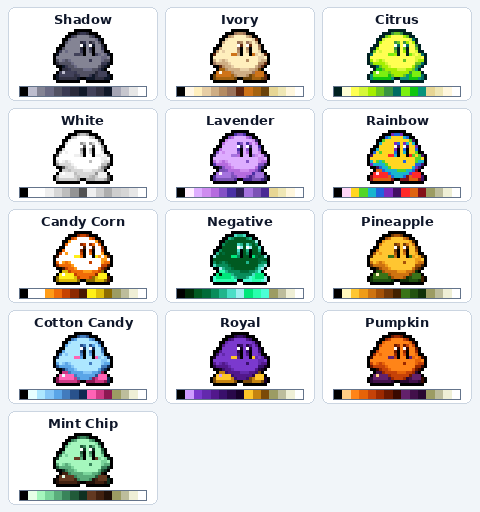
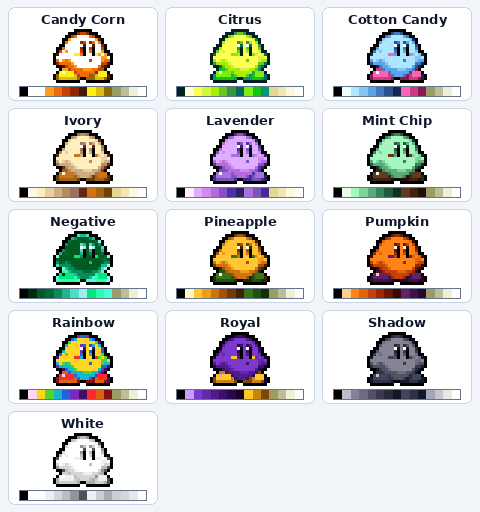
Alphabetize the three Kirby color palette galleries

diff --git a/worlds/kirbyam/docs/color-palettes.md b/worlds/kirbyam/docs/color-palettes.md
@@ -15,44 +15,51 @@ Kirby & The Amazing Mirror:
 
 ### Original colors
 
-![Kirby sprites and swatches for the 14 original palettes, from Pink to Chalk. The YAML keys are listed below.](color-palettes-native.png)
+![Kirby sprites and swatches for the 14 original palettes, from Carbon to Yellow. The YAML keys are listed below.](color-palettes-native.png)
 
 ### Additional starting colors
 
-![Kirby sprites and swatches for the 13 additional selectable palettes, from Shadow to Mint Chip. The YAML keys are listed below.](color-palettes-curated.png)
+![Kirby sprites and swatches for the 13 additional selectable palettes, from Candy Corn to White. The YAML keys are listed below.](color-palettes-curated.png)
 
 <details>
 <summary>All 27 color names and YAML values</summary>
 
+**Original colors**
+
 | Color | YAML value |
 | --- | --- |
-| Pink | `pink` |
-| Yellow | `yellow` |
-| Red | `red` |
-| Green | `green` |
-| Snow | `snow` |
 | Carbon | `carbon` |
-| Ocean | `ocean` |
-| Sapphire | `sapphire` |
-| Grape | `grape` |
-| Emerald | `emerald` |
-| Orange | `orange` |
-| Chocolate | `chocolate` |
-| Cherry | `cherry` |
 | Chalk | `chalk` |
-| Shadow | `shadow` |
-| Ivory | `ivory` |
-| Citrus | `citrus` |
-| White | `white` |
-| Lavender | `lavender` |
-| Rainbow | `rainbow` |
+| Cherry | `cherry` |
+| Chocolate | `chocolate` |
+| Emerald | `emerald` |
+| Grape | `grape` |
+| Green | `green` |
+| Ocean | `ocean` |
+| Orange | `orange` |
+| Pink | `pink` |
+| Red | `red` |
+| Sapphire | `sapphire` |
+| Snow | `snow` |
+| Yellow | `yellow` |
+
+**Additional starting colors**
+
+| Color | YAML value |
+| --- | --- |
 | Candy Corn | `candy_corn` |
+| Citrus | `citrus` |
+| Cotton Candy | `cotton_candy` |
+| Ivory | `ivory` |
+| Lavender | `lavender` |
+| Mint Chip | `mint_chip` |
 | Negative | `negative` |
 | Pineapple | `pineapple` |
-| Cotton Candy | `cotton_candy` |
-| Royal | `royal` |
 | Pumpkin | `pumpkin` |
-| Mint Chip | `mint_chip` |
+| Rainbow | `rainbow` |
+| Royal | `royal` |
+| Shadow | `shadow` |
+| White | `white` |
 
 </details>
 
@@ -60,54 +67,54 @@ Kirby & The Amazing Mirror:
 
 These **41 reference palettes** are not in the game and cannot be selected in YAML. The sprite mockups show how the reference swatches look on normal Kirby; they have not been implemented or checked in gameplay. Names and colors may change.
 
-![Kirby mockups and swatches for the first 21 proposals, Rose through Samus. The names are listed below.](color-palettes-proposals-1.png)
+![Kirby mockups and swatches for the first 21 proposals, Advance Ice through Meconopsis / Blue Poppy. The names are listed below.](color-palettes-proposals-1.png)
 
-![Kirby mockups and swatches for the remaining 20 proposals, Marx through Ultra Stone. The names are listed below.](color-palettes-proposals-2.png)
+![Kirby mockups and swatches for the remaining 20 proposals, Mogeko through Waddle Dee. The names are listed below.](color-palettes-proposals-2.png)
 
 <details>
 <summary>All 41 proposed color names</summary>
 
-- Rose
-- Daisy
-- Lemon
-- Beautiful Sunset
-- Carrot Cake
-- Snow Cone
-- Strawberry Peach
-- Halloween
-- Ramia’s Scale & Star Stone
-- Meconopsis / Blue Poppy
-- Superstar Ice
-- KDL3 Pink
 - Advance Ice
-- Advance Stone
-- Superstar Meta Knight
 - Advance Meta Knight
-- Galacta Knight
-- Morpho Knight
-- Dedede
-- Link
-- Samus
-- Marx
-- Purple
+- Advance Stone
+- Beautiful Sunset
 - Bright
-- Spicy
-- Toad
-- Edgey
-- Mogeko
-- Waddle Dee
-- Lololo
-- Lalala
 - Calie
+- Carrot Cake
+- Daisy
+- Dedede
+- Edgey
+- Galacta Knight
+- Halloween
+- KDL3 Pink
+- Lalala
+- Lemon
+- Link
+- Lololo
 - Marie
-- Pearl
 - Marina
+- Marx
+- Meconopsis / Blue Poppy
+- Mogeko
+- Morpho Knight
+- Pearl
+- Purple
+- Ramia’s Scale & Star Stone
+- Rose
+- Samus
+- Snow Cone
+- Spicy
+- Strawberry Peach
+- Superstar Ice
+- Superstar Meta Knight
+- Toad
 - Ultra Beam
 - Ultra Fire
 - Ultra Mirror
 - Ultra Ninja
 - Ultra Plasma
 - Ultra Stone
+- Waddle Dee
 
 </details>
 
